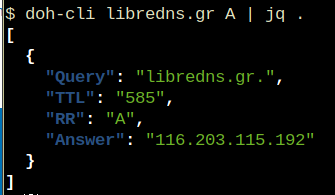
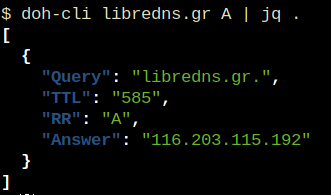
Use code syntax instead of pre for better formating
Also fixed some minor types and crop screenshot

diff --git a/posts/191225-doh-cli.md b/posts/191225-doh-cli.md
@@ -11,7 +11,7 @@ A couple months ago, we announced a public and free DNS service, so people can h
 dns
 ---
 
-What is **DNS** ?
+What is **DNS**?
 
 Domain Name Service in a nutshell is when you are asking directions to find where Wikipedia is in the internet. Your browser does not know, so it will ask your computer. Your computer will ask your internet provider and your internet provider will ask someone else till they find the correct answer. In the end, your browser will know where to go and this is how you are visiting Wikipedia.
 
@@ -47,11 +47,11 @@ install it
 
 It is super easy
 
-    pip3 install doh-clit
+`pip3 install doh-cli`
 
 or if python3 is your default python
 
-    pip install doh-cli
+`pip install doh-cli`
 
 howto use it?
 ---
@@ -60,18 +60,18 @@ Just ask your fav DoH server (default is `https://doh.libredns.gr/dns-query`)
 
 eg.
 
-    doh-cli libredns.gr A
+`doh-cli libredns.gr A`
 
 and use help to see all the options
 
-    doh-cli --help
+`doh-cli --help`
 
 Why default output is json?
 ---
 
 With modern tools and with multiline output, it is best to support a serialized format so you can use doh-cli with your tools. But if you dont like it:
 
-    doh-cli --output plain libredns.gr A
+`doh-cli --output plain libredns.gr A`
 
 You can see all the options and help, on the project's page.
 
